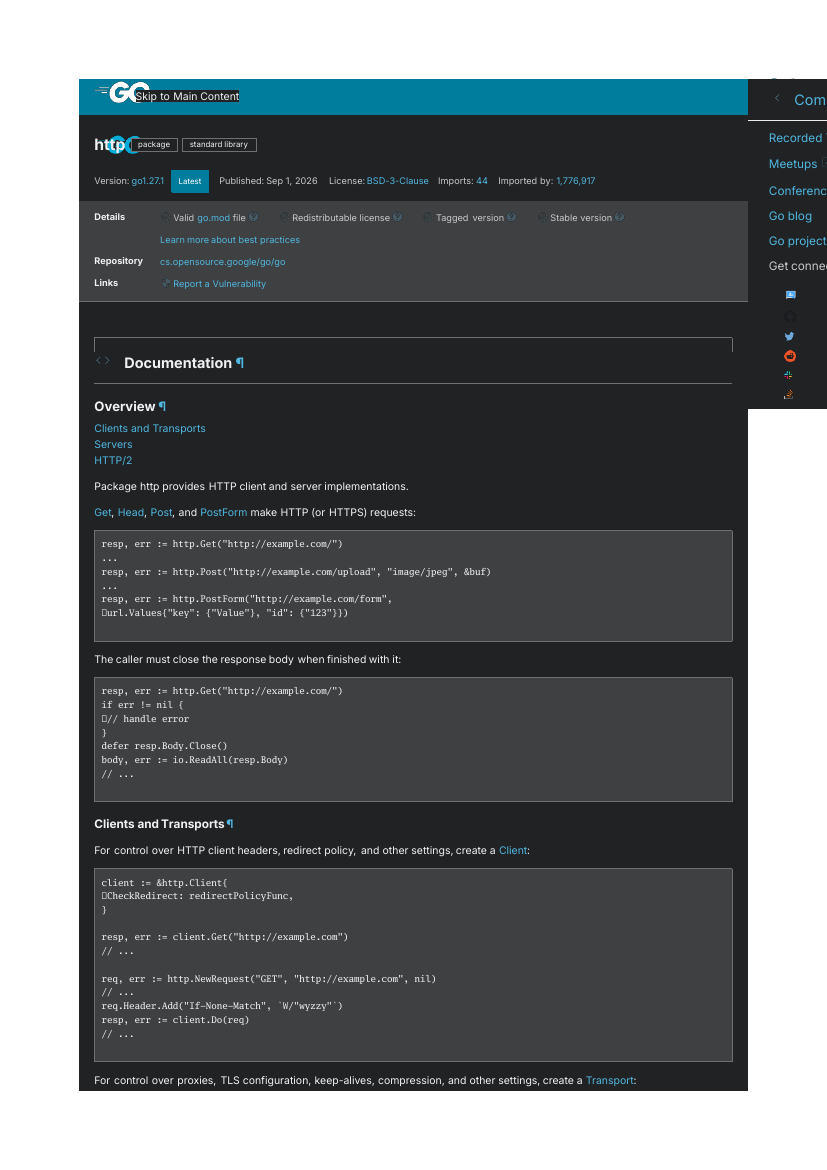
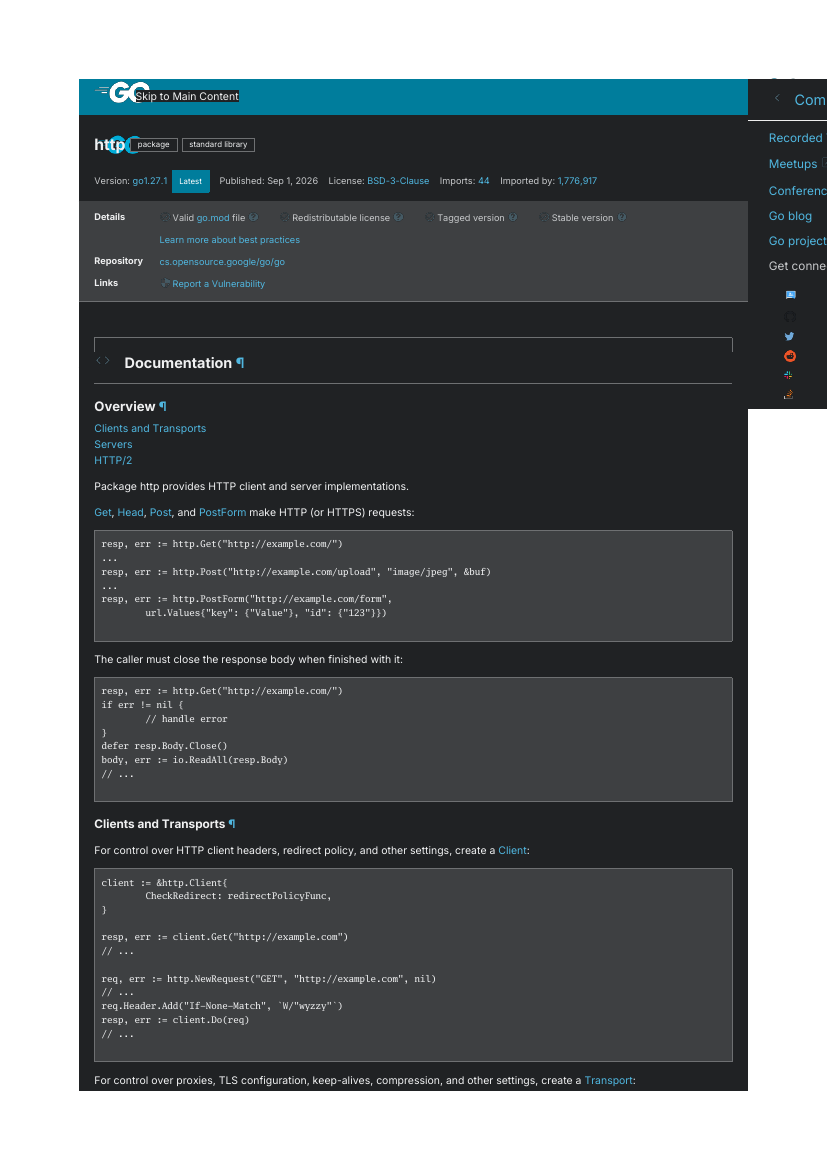
Tables at their words' width, spaces where the page has them: engine #147/#148, a glued-word census (#24)
A report PDF showed "wrong characters, lost spaces" that every renderer
drew alike — Quartz, poppler, pdfium, MuPDF, pdf.js — which is the proof
the drawing itself was wrong. A word-level census named the words:
"PuissanceIT", "MémoireCalculBande", "≈15,8TB/s", all table headers,
because the engine scaled each column's max-content width to fit with no
floor under its longest word. Engine #147 brings the CSS 2.1 §17.5.2.2
automatic layout (minimum = longest unbreakable unit, percentage and
fixed widths honoured, surplus to the auto columns) and white-space:
nowrap; the report's five glued tokens are gone.

The census is now the corpus's Glued column (cmd/corpus/glued.go): the
PDF's words that are two consecutive page words run together — separated
by whitespace or a block boundary in the source, never a bare inline
boundary like kW<sup>‡</sup>, never a pair the page itself joins. Its
first run reported pkg.go.dev 64 and RFC 9110 282, and named three more
causes: a no-break space dropped by strings.Fields, a tab in <pre> that
measured at 0 but drew as the .notdef box (both engine #148), and this
exporter drawing with TextShaped's kerning while the engine measures
plain advances — a kerned run ended short of its slot and the gap read
as a space ("15.2.1 ."). Text is now written glyph by glyph at the
measured advance; kerning belongs in the engine's measure first.

After: Glued 0 on all eight pages, PDFs 3–11 % smaller (no per-glyph
[…]

diff --git a/corpus/cmd/corpus/report.go b/corpus/cmd/corpus/report.go
@@ -22,15 +22,15 @@ func writeReport(path string, results []result) error {
 	}
 	fmt.Fprintf(&b, "%d/%d succeeded.\n\n", ok, len(results))
 
-	b.WriteString("| URL | Status | Pages | PDF | Text chars | Links | Lost chars | Fetch | Render |\n")
-	b.WriteString("|---|---|---|---|---|---|---|---|---|\n")
+	b.WriteString("| URL | Status | Pages | PDF | Text chars | Links | Lost chars | Glued | Fetch | Render |\n")
+	b.WriteString("|---|---|---|---|---|---|---|---|---|---|\n")
 	for _, r := range results {
 		status := "✅"
 		if !r.OK {
 			status = "❌ " + r.Error
 		}
-		fmt.Fprintf(&b, "| [%s](%s) | %s | %d | %d B | %d | %d | %d | %dms | %dms |\n",
-			r.URL, r.URL, status, r.Pages, r.PDFBytes, r.TextChars, r.Links, r.LostChars, r.FetchMs, r.RenderMs)
+		fmt.Fprintf(&b, "| [%s](%s) | %s | %d | %d B | %d | %d | %d | %d | %dms | %dms |\n",
+			r.URL, r.URL, status, r.Pages, r.PDFBytes, r.TextChars, r.Links, r.LostChars, r.Glued, r.FetchMs, r.RenderMs)
 	}
 	b.WriteString("\n")
 	return mdreport.Write(path, b.String())

diff --git a/render.go b/render.go
@@ -154,7 +154,13 @@ func (e *exporter) paintLine(line *layout.LineBox) {
 				f = e.fonts.fallback(st.Bold(), st.Italic)
 			}
 			e.p.SetFont(f, st.FontSize*e.scale*pxToPt)
-			_ = e.p.TextShaped(x, y, run.Text)
+			// Plain cmap text, not the shaped path: the engine measures
+			// each glyph's own advance with no kerning and its raster draws
+			// the same, so a kerned run here ended short of its layout
+			// slot and the gap read as a space ("15.2.1 ." on RFC 9110's
+			// table of contents). Kerning and ligatures belong in both
+			// places at once — the engine's measure first.
+			_ = e.p.Text(x, y, run.Text)
 			x += e.measure.Measure(run.Text, st.FontFamily, st.FontSize, st.FontWeight, st.Italic) * e.scale * pxToPt
 		}
 	}

diff --git a/corpus/cmd/corpus/main.go b/corpus/cmd/corpus/main.go
@@ -45,6 +45,10 @@ type result struct {
 	// a glyph the fonts could not draw, most often. Lost lists them.
 	LostChars int    `json:"lost_chars"`
 	Lost      string `json:"lost,omitempty"`
+	// Glued counts the PDF's words that are two of the page's words run
+	// together ("PuissanceIT") — a space lost in layout. GluedWords lists them.
+	Glued      int    `json:"glued"`
+	GluedWords string `json:"glued_words,omitempty"`
 }
 
 func slugify(rawurl string) string {
@@ -185,6 +189,7 @@ func run() int {
 		}
 		r.TextChars = pdfTextChars(outPath)
 		r.LostChars, r.Lost = lostChars(e, doc, outPath)
+		r.Glued, r.GluedWords = gluedWords(e, doc, outPath)
 		r.OK = true
 
 		pngBase := filepath.Join(*outDir, r.Slug+"-p1")

diff --git a/corpus/CORPUS.md b/corpus/CORPUS.md
@@ -2,16 +2,16 @@
 
 8/8 succeeded.
 
-| URL | Status | Pages | PDF | Text chars | Links | Lost chars | Fetch | Render |
-|---|---|---|---|---|---|---|---|---|
-| [https://example.com/](https://example.com/) | ✅ | 1 | 6887 B | 127 | 1 | 0 | 33ms | 49ms |
-| [https://en.wikipedia.org/wiki/Go_(programming_language)](https://en.wikipedia.org/wiki/Go_(programming_language)) | ✅ | 13 | 252361 B | 56043 | 710 | 0 | 213ms | 3789ms |
-| [https://en.wikipedia.org/wiki/List_of_countries_by_population_(United_Nations)](https://en.wikipedia.org/wiki/List_of_countries_by_population_(United_Nations)) | ✅ | 7 | 158367 B | 19482 | 873 | 0 | 36ms | 16045ms |
-| [https://go.dev/blog/subtests](https://go.dev/blog/subtests) | ✅ | 5 | 60578 B | 12031 | 31 | 0 | 147ms | 1717ms |
-| [https://pkg.go.dev/net/http](https://pkg.go.dev/net/http) | ✅ | 51 | 383572 B | 145138 | 1790 | 0 | 631ms | 3931ms |
-| [https://www.rfc-editor.org/rfc/rfc9110.html](https://www.rfc-editor.org/rfc/rfc9110.html) | ✅ | 172 | 999532 B | 443933 | 3421 | 3 | 243ms | 540ms |
-| [https://news.ycombinator.com/](https://news.ycombinator.com/) | ✅ | 1 | 28648 B | 4057 | 225 | 0 | 452ms | 818ms |
-| [https://react.dev/](https://react.dev/) | ✅ | 8 | 782182 B | 7740 | 144 | 3 | 69ms | 776ms |
+| URL | Status | Pages | PDF | Text chars | Links | Lost chars | Glued | Fetch | Render |
+|---|---|---|---|---|---|---|---|---|---|
+| [https://example.com/](https://example.com/) | ✅ | 1 | 6794 B | 127 | 1 | 0 | 0 | 39ms | 49ms |
+| [https://en.wikipedia.org/wiki/Go_(programming_language)](https://en.wikipedia.org/wiki/Go_(programming_language)) | ✅ | 13 | 247305 B | 55614 | 706 | 0 | 0 | 119ms | 3654ms |
+| [https://en.wikipedia.org/wiki/List_of_countries_by_population_(United_Nations)](https://en.wikipedia.org/wiki/List_of_countries_by_population_(United_Nations)) | ✅ | 7 | 169778 B | 19474 | 873 | 0 | 0 | 55ms | 844ms |
+| [https://go.dev/blog/subtests](https://go.dev/blog/subtests) | ✅ | 5 | 56696 B | 12024 | 31 | 0 | 0 | 276ms | 1912ms |
+| [https://pkg.go.dev/net/http](https://pkg.go.dev/net/http) | ✅ | 51 | 342242 B | 141298 | 1790 | 0 | 0 | 198ms | 3782ms |
+| [https://www.rfc-editor.org/rfc/rfc9110.html](https://www.rfc-editor.org/rfc/rfc9110.html) | ✅ | 173 | 969828 B | 445044 | 3419 | 3 | 0 | 215ms | 395ms |
+| [https://news.ycombinator.com/](https://news.ycombinator.com/) | ✅ | 1 | 27736 B | 4015 | 224 | 0 | 0 | 460ms | 783ms |
+| [https://react.dev/](https://react.dev/) | ✅ | 8 | 778857 B | 7739 | 144 | 3 | 0 | 31ms | 639ms |
 
 <!-- BEGIN ANALYSIS -->
 
@@ -432,3 +432,40 @@ sets it for mono and serif); on react.dev it sits in the search **button**
 (`<kbd data-platform="mac">` inside `<button>`), a form control the engine
 paints on its own path — html2pdf's walker paints text lines only. That is
 the "second walker" row of the mutualisation audit, not a font.
+
+### Glued words — 2026-09-07 (engine [#147](https://github.com/go-webengine/engine/pull/147), [#148](https://github.com/go-webengine/engine/pull/148))
+
+The user reported "wrong characters, lost spaces" in a report PDF whose
+fonts passed every structural check and which five renderers (Quartz,
+poppler, pdfium, MuPDF, pdf.js) drew identically — the agreement being the
+proof that the *drawing* was wrong, not its decoding. A word-level census
+named the words: the PDF's extracted text held `PuissanceIT`,
+`MémoireCalculBande`, `≈15,8TB/s`, all in table headers. The engine scaled
+each column's max-content width to fit the table with no floor, so a
+column of short words next to a long-text column got 41 px for a 100 px
+word and the word ran into the next cell; Chrome laid the same tables out
+with every column at least its longest word wide. Engine #147 is the CSS
+2.1 §17.5.2.2 automatic layout (minimum = longest unbreakable unit,
+percentage and fixed cell widths honoured, surplus to the auto columns)
+plus `white-space: nowrap`, which had been parsed as `normal`.
+
+The census is now the **Glued** column of the table above
+(`cmd/corpus/glued.go`): the PDF's words that are two consecutive words
+of the page run together, where the two were separated by whitespace or a
+block boundary in the source — never a bare inline boundary such as
+`kW<sup>‡</sup>`, and never a pair the page itself joins somewhere. Its
+first run reported **pkg.go.dev 64, RFC 9110 282**, three causes deep:
+
+| Cause | Where | Fix |
+|---|---|---|
+| A no-break space was dropped — `strings.Fields` splits on `unicode.IsSpace`, true for U+00A0 | RFC 9110's table of contents, `<a>15.2.1</a>.&nbsp;&nbsp;<a>100 Continue</a>` → "15.2.1 .100" | engine #148: words split on collapsible whitespace only |
+| A tab in `<pre>` stayed in the text: measured at 0 (no glyph), drawn as the `.notdef` box at its width | pkg.go.dev's source listings, `= 100 // RFC` → `= 100// RFC` behind a tofu box | engine #148: tabs expand to 8-column tab stops, counted across a line's segments |
+| The exporter drew with `TextShaped` (GPOS kerning) while the engine measures plain advances; a kerned run ended short of its slot and the gap read as a space | RFC 9110, "15.2.1 ." | `Text`: glyph by glyph at the measured advance; kerning enters the engine's measure first |
+
+After: **Glued 0 on all eight pages**; the PDFs are 3–11 % smaller (no
+per-glyph kerning corrections in the streams): pkg.go.dev 383 572 →
+342 242 B, RFC 9110 999 532 → 969 828 B. The user's report went from five
+glued tokens to none. What the census cannot see: a break placed at an
+inline boundary with no whitespace (`152,3<sup>†</sup>` wrapping before
+the dagger) — the words stay apart in the text; engine
+[#149](https://github.com/go-webengine/engine/issues/149).

diff --git a/README.md b/README.md
@@ -94,6 +94,13 @@ Cyrillic, ①–⑩), embedded beside the family, the way a browser falls back
 per character to the system's fonts; CJK is beyond it and draws as nothing.
 The corpus report's **Lost chars** column counts what still vanishes.
 
+Text is written glyph by glyph at each glyph's own advance — no kerning, no
+ligatures — because that is exactly how the engine measures and rasterises
+it; a kerned run would end short of its layout slot and the gap would read
+as a space. Kerning belongs in the engine's measure first. The corpus
+report's **Glued** column counts the words of the extracted text that are
+two of the page's words run together — a space lost in layout.
+
 External stylesheets — `<link rel="stylesheet">` and their `@import` chains —
 are fetched through the engine's own bounded loader (`Engine.LoadStylesheets`:
 64 sheets, 4 MB each, two `@import` levels, 10 s) and cascaded for the
